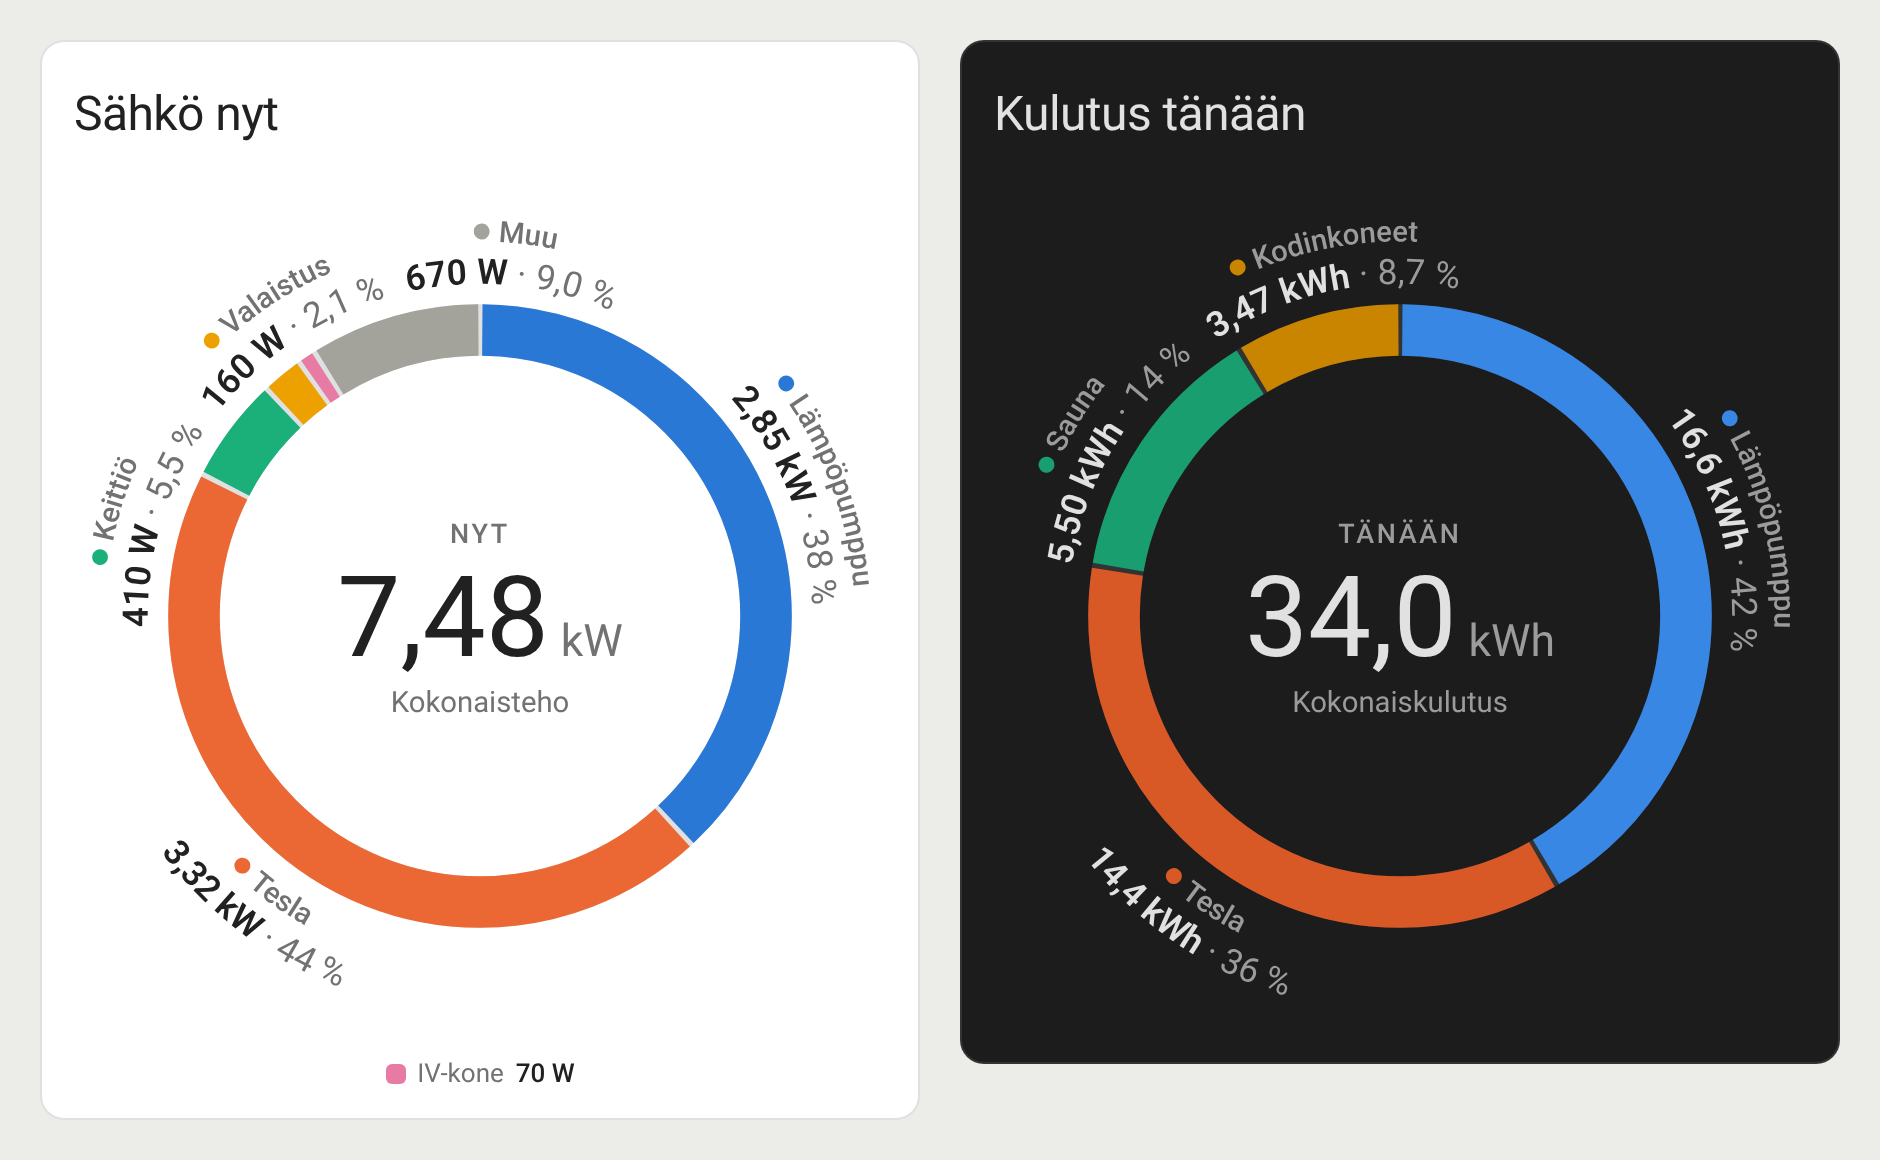
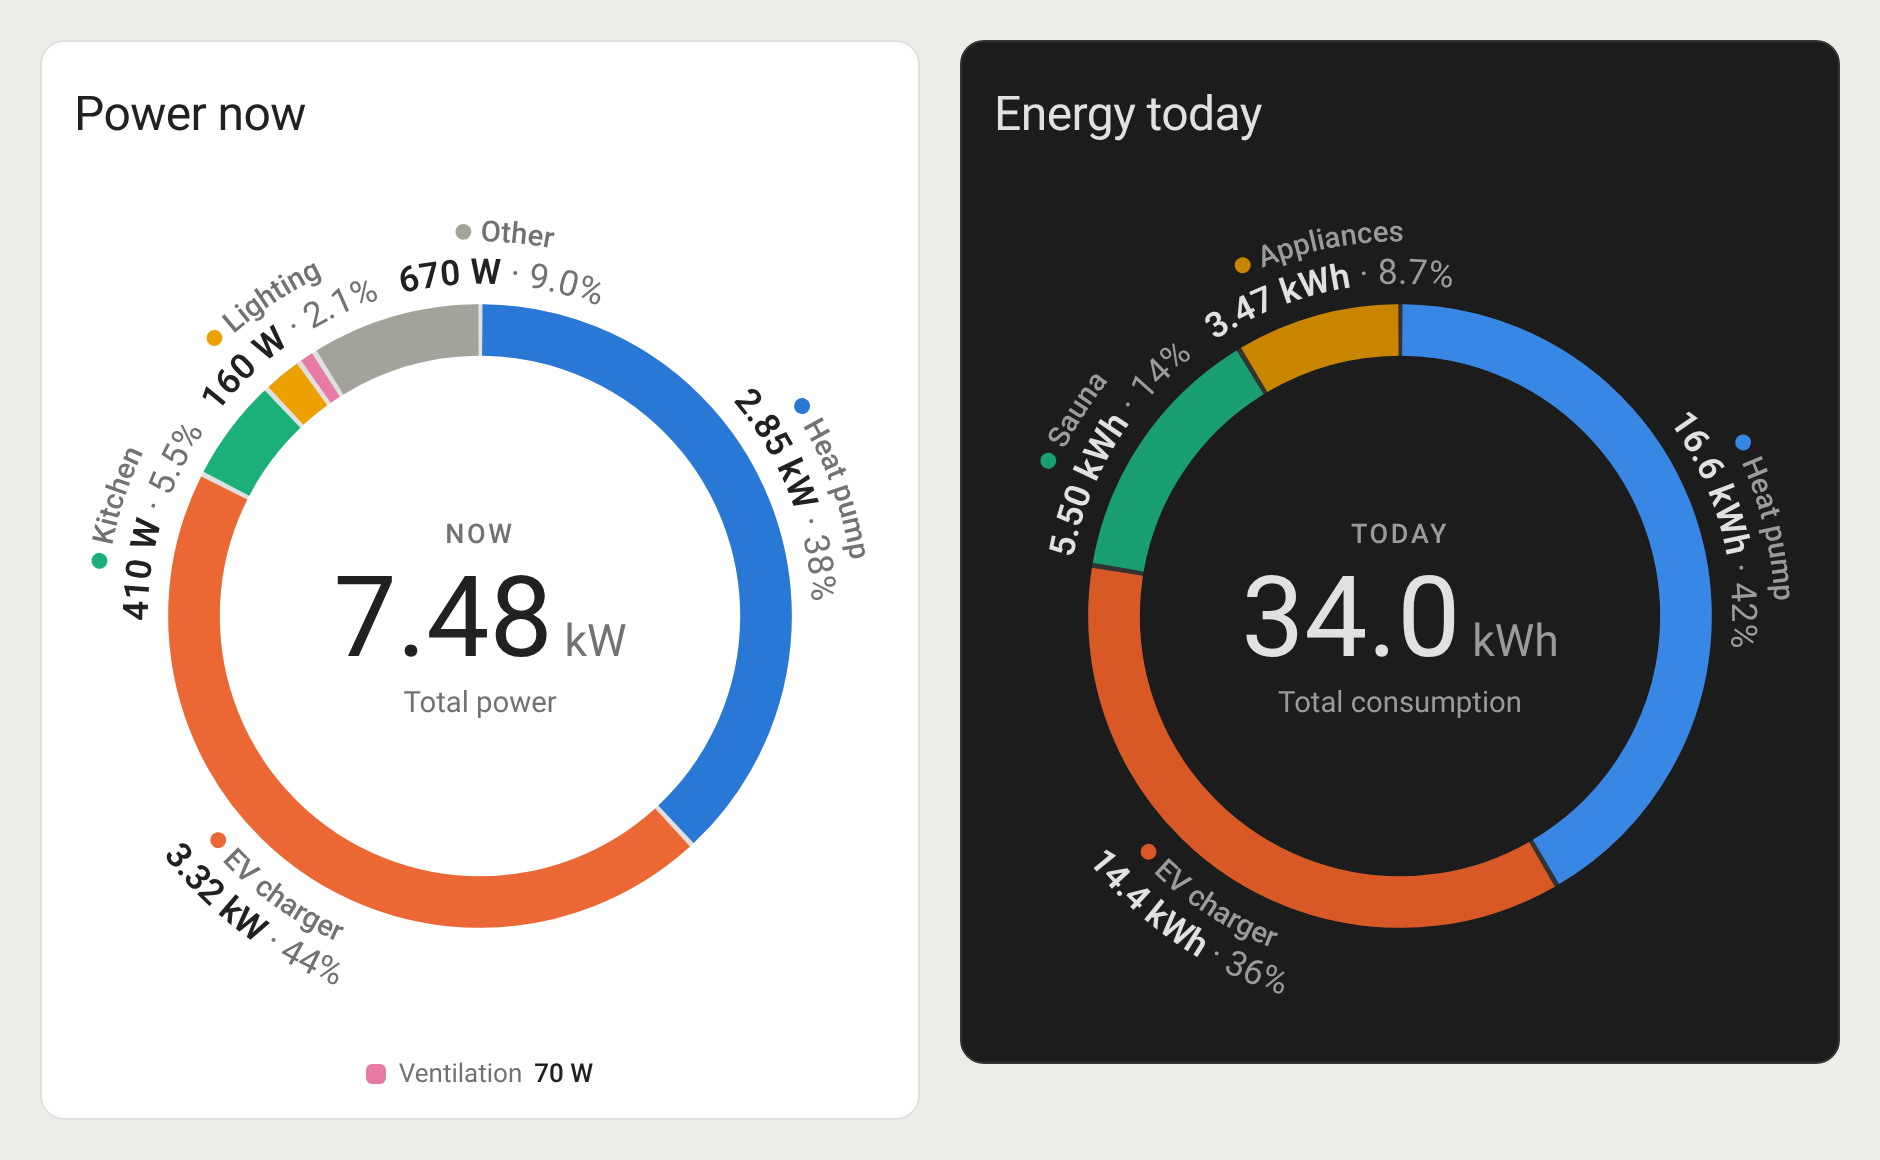
v1.1.1: English throughout
- Card source header, configuration errors and console messages in English
- Card picker description in English
- README: English examples, Finnish section removed
- Preview image regenerated with the English locale

Card UI texts still follow the Home Assistant language (en/fi/sv).

Claude-Session: https://claude.ai/code/session_01Lwrpmej4iouCGrqTRdRwyv

diff --git a/energy-ring-card.js b/energy-ring-card.js
@@ -1,40 +1,40 @@
 /*!
- * energy-ring-card v1.1.0 — Home Assistant Lovelace custom card
+ * energy-ring-card v1.1.1 — Home Assistant Lovelace custom card
  * https://github.com/artepe/energy-ring-haos · MIT
- * Kokonaiskulutus renkaan keskellä, kohteiden kulutukset renkaan sektoreina,
- * nimet ja arvot kaartuvat renkaan linjaa pitkin.
+ * Total consumption in the centre of a ring, each consumer as a segment,
+ * with names and values written along the ring.
  *
- * Asennus: kopioi tiedosto /config/www/energy-ring-card.js ja lisää resurssi
- *   URL: /local/energy-ring-card.js?v=1.0.0   tyyppi: JavaScript-moduuli
+ * Install: copy this file to /config/www/energy-ring-card.js and add a resource
+ *   URL: /local/energy-ring-card.js?v=1.1.1   type: JavaScript module
  *
- * Konfiguraatio (YAML):
+ * Configuration (YAML):
  *   type: custom:energy-ring-card
- *   title: Sähkö                  # valinnainen otsikko
- *   period: live                  # live = entiteettien tila (W/kW tai kWh)
- *                                 # today | yesterday | week | month | year = HA:n
- *                                 # pitkäaikaistilastot (energia-anturit, total_increasing)
- *   total_entity: sensor.koko_talo   # valinnainen, keskelle + "Muu"-sektori erotukselle
- *   entities:                     # 9.+ kohde lasketaan Muu-sektoriin, ellei sille anna omaa väriä
- *     - entity: sensor.vilp_teho
- *       name: Lämpöpumppu
- *       color: orange               # valinnainen (CSS-väri tai HA-värinimi)
- *     - sensor.sauna_teho           # lyhyt muoto
- *   show_other: true              # Muu = total_entity − kohteiden summa
- *   other_name: Muu
- *   sort: false                   # true = suurin ensin
- *   legend: auto                  # auto = vain ne, joiden teksti ei mahdu kehälle | true | false
- *   decimals:                     # valinnainen, pakota desimaalit
- *   center_label: / total_label:  # valinnaiset keskitekstit
- *   refresh_interval: 60          # s, tilastotilassa
- *   max_width: 440                # px, renkaan maksimileveys
- *   grid_options:                 # sections-näkymä: kortti mukautuu annettuun ruutuun
+ *   title: Electricity            # optional header
+ *   period: live                  # live = current entity states (W/kW or kWh)
+ *                                 # today | yesterday | week | month | year = Home Assistant
+ *                                 # long-term statistics (energy sensors, total_increasing)
+ *   total_entity: sensor.house_power  # optional: centre value, remainder shown as "Other"
+ *   entities:                     # a 9th+ entity without its own color is counted in "Other"
+ *     - entity: sensor.heat_pump_power
+ *       name: Heat pump
+ *       color: orange               # optional (CSS color or Home Assistant color name)
+ *     - sensor.sauna_power          # short form
+ *   show_other: true              # Other = total_entity minus the sum of entities
+ *   other_name: Other             # default follows the Home Assistant language
+ *   sort: false                   # true = largest first
+ *   legend: auto                  # auto = only items whose label does not fit on the ring | true | false
+ *   decimals:                     # optional, force the number of decimals
+ *   center_label: / total_label:  # optional centre texts
+ *   refresh_interval: 60          # seconds, statistics mode
+ *   max_width: 440                # px, maximum ring width
+ *   grid_options:                 # sections view: the card fits the cell it is given
  *     columns: 6
  *     rows: 3
  */
 (() => {
   'use strict';
 
-  const VERSION = '1.1.0';
+  const VERSION = '1.1.1';
   const TAG = 'energy-ring-card';
   if (customElements.get(TAG)) return;
 
@@ -342,23 +342,23 @@
     }
 
     setConfig(config) {
-      if (!config || typeof config !== 'object') throw new Error('energy-ring-card: virheellinen konfiguraatio');
+      if (!config || typeof config !== 'object') throw new Error('energy-ring-card: invalid configuration');
       if (!Array.isArray(config.entities) || !config.entities.length) {
-        throw new Error('energy-ring-card: lisää vähintään yksi entiteetti (entities:)');
+        throw new Error('energy-ring-card: add at least one entity (entities:)');
       }
       const entities = config.entities.map((e, i) => {
         const o = typeof e === 'string' ? { entity: e } : { ...(e || {}) };
         if (typeof o.entity !== 'string' || !o.entity.includes('.')) {
-          throw new Error(`energy-ring-card: entities[${i}].entity puuttuu tai on virheellinen`);
+          throw new Error(`energy-ring-card: entities[${i}].entity is missing or invalid`);
         }
         return o;
       });
       const period = config.period && config.period !== 'live' ? String(config.period) : null;
       if (period && !PERIODS.includes(period)) {
-        throw new Error(`energy-ring-card: period: ${['live', ...PERIODS].join(' | ')}`);
+        throw new Error(`energy-ring-card: period must be one of ${['live', ...PERIODS].join(' | ')}`);
       }
       if (config.total_entity != null && (typeof config.total_entity !== 'string' || !config.total_entity.includes('.'))) {
-        throw new Error('energy-ring-card: total_entity on virheellinen');
+        throw new Error('energy-ring-card: total_entity is invalid');
       }
       let legend = config.legend === undefined ? 'auto' : config.legend;
       if (legend === 'all' || legend === 'on') legend = true;
@@ -648,7 +648,7 @@
         this._statsErr = null;
       } catch (err) {
         if (cfgRef !== this._config) return;
-        console.error('[energy-ring-card] tilastojen haku epäonnistui', err);
+        console.error('[energy-ring-card] failed to load statistics', err);
         this._statsErr = (err && (err.message || err.code)) || String(err);
         if (this._stats) this._stats.at = Date.now();
       } finally {
@@ -666,7 +666,7 @@
         const ok = new Set((res || []).filter((m) => m && m.has_sum !== false).map((m) => m.statistic_id));
         const missing = new Set(ids.filter((id) => !ok.has(id)));
         if (missing.size) {
-          console.warn('[energy-ring-card] Näillä entiteeteillä ei ole energiatilastoja (state_class total/total_increasing tarvitaan):', [...missing].join(', '));
+          console.warn('[energy-ring-card] These entities have no energy statistics (state_class total or total_increasing is required):', [...missing].join(', '));
         }
         return { missing };
       } catch (e) {
@@ -785,7 +785,7 @@
       const unitOther = kind === 'other' ? ((tot && tot.unit) || (items.find((i) => i.unit) || {}).unit || '') : '';
       const kinds = new Set(items.filter((i) => i.available).map((i) => i.kind));
       if (tot && tot.kind) kinds.add(tot.kind);
-      if (kinds.size > 1) this._warn('mix', 'energy-ring-card: entiteeteillä on eri suureita (teho W vs. energia kWh) — osuudet eivät ole vertailukelpoisia.');
+      if (kinds.size > 1) this._warn('mix', 'energy-ring-card: the entities mix power (W) and energy (kWh), so their shares are not comparable.');
 
       const vis = items.filter((i) => !i.folded);
       const fold = items.filter((i) => i.folded);
@@ -1159,7 +1159,7 @@
   window.customCards.push({
     type: TAG,
     name: 'Energy Ring Card',
-    description: 'Kokonaiskulutus renkaan keskellä, kohteiden kulutukset renkaan kaarella.',
+    description: 'Total consumption in the centre of a ring, each consumer as a segment along it.',
     preview: true,
   });
   console.info(

diff --git a/tests/preview.py b/tests/preview.py
@@ -1,15 +1,17 @@
 import pathlib
 from playwright.sync_api import sync_playwright
 from PIL import Image
+# Regenerates images/preview.png (English locale, light + dark).
 HERE = pathlib.Path(__file__).parent; OUT = HERE / "out"; URL = (HERE / "index.html").as_uri()
+OUT.mkdir(exist_ok=True)
 LIVE = r"""() => {
   const W = (id, w, n) => st(id, w, 'W', n, { device_class: 'power' });
-  const s = { 'sensor.koko': st('sensor.koko', 7.48, 'kW', 'Koko talo'), 'sensor.vilp': W('sensor.vilp', 2850, 'VILP'),
-    'sensor.tesla': W('sensor.tesla', 3320, 'Tesla'), 'sensor.keittio': W('sensor.keittio', 410, 'Keittiö'),
-    'sensor.valot': W('sensor.valot', 160, 'Valaistus'), 'sensor.iv': W('sensor.iv', 70, 'IV-kone') };
-  mount('P', { type: 'custom:energy-ring-card', title: 'Sähkö nyt', total_entity: 'sensor.koko',
-    entities: [{ entity: 'sensor.vilp', name: 'Lämpöpumppu' }, { entity: 'sensor.tesla', name: 'Tesla' }, 'sensor.keittio', 'sensor.valot', 'sensor.iv'] },
-    makeHass({ states: s }), 440);
+  const s = { 'sensor.house': st('sensor.house', 7.48, 'kW', 'House'), 'sensor.hp': W('sensor.hp', 2850, 'Heat pump'),
+    'sensor.ev': W('sensor.ev', 3320, 'EV charger'), 'sensor.kitchen': W('sensor.kitchen', 410, 'Kitchen'),
+    'sensor.lights': W('sensor.lights', 160, 'Lighting'), 'sensor.vent': W('sensor.vent', 70, 'Ventilation') };
+  mount('P', { type: 'custom:energy-ring-card', title: 'Power now', total_entity: 'sensor.house',
+    entities: ['sensor.hp', 'sensor.ev', 'sensor.kitchen', 'sensor.lights', 'sensor.vent'] },
+    makeHass({ states: s, lang: 'en' }), 440);
 }"""
 STATS = r"""() => {
   document.documentElement.classList.add('dark');
@@ -17,10 +19,10 @@ STATS = r"""() => {
     'sensor.e': (t) => ((Math.floor(t / 36e5) % 24) < 4 ? 3.6 : 0), 'sensor.s': (t) => ((Math.floor(t / 36e5) % 24) === 7 ? 5.5 : 0),
     'sensor.k': (t) => 0.3 };
   const defs = Object.fromEntries(Object.entries(kwf).map(([k, f]) => [k, { kw: f }]));
-  const names = { 'sensor.t': 'Koko talo', 'sensor.v': 'Lämpöpumppu', 'sensor.e': 'Tesla', 'sensor.s': 'Sauna', 'sensor.k': 'Kodinkoneet' };
+  const names = { 'sensor.t': 'House', 'sensor.v': 'Heat pump', 'sensor.e': 'EV charger', 'sensor.s': 'Sauna', 'sensor.k': 'Appliances' };
   const s = Object.fromEntries(Object.keys(kwf).map(k => [k, st(k, 1, 'kWh', names[k])]));
-  mount('Q', { type: 'custom:energy-ring-card', title: 'Kulutus tänään', period: 'today', total_entity: 'sensor.t',
-    entities: ['sensor.v', 'sensor.e', 'sensor.s', 'sensor.k'] }, makeHass({ states: s, dark: true, callWS: makeStatsWS(defs) }), 440);
+  mount('Q', { type: 'custom:energy-ring-card', title: 'Energy today', period: 'today', total_entity: 'sensor.t',
+    entities: ['sensor.v', 'sensor.e', 'sensor.s', 'sensor.k'] }, makeHass({ states: s, dark: true, lang: 'en', callWS: makeStatsWS(defs) }), 440);
 }"""
 shots = []
 with sync_playwright() as p:
@@ -37,4 +39,4 @@ pad = 40; w = sum(i.width for i in ims) + pad * 3; h = max(i.height for i in ims
 canvas = Image.new("RGB", (w, h), (236, 236, 233)); x = pad
 for i in ims:
     canvas.paste(i, (x, pad), i); x += i.width + pad
-OUT.mkdir(exist_ok=True); canvas.save(HERE.parent / "images" / "preview.png"); print(canvas.size)
+canvas.save(HERE.parent / "images" / "preview.png"); print(canvas.size)

diff --git a/README.md b/README.md
@@ -8,7 +8,7 @@ A Home Assistant Lovelace card that shows the total consumption in the middle of
 - Optional `total_entity`: the untracked remainder is shown as an **Other** segment.
 - Labels are laid out automatically. Ones that don't fit on the ring move to a legend under it.
 - Hover a segment to see its value and share in the centre. A click opens the more-info dialog. Works with the keyboard too.
-- Light and dark theme, colour-blind-safe default palette, Finnish / Swedish / English texts.
+- Light and dark theme and a colour-blind-safe default palette. Card texts follow the Home Assistant language (English, Finnish, Swedish).
 
 Requires Home Assistant 2024.1 or newer.
 
@@ -22,7 +22,7 @@ Requires Home Assistant 2024.1 or newer.
 **Manual**
 
 1. Copy `energy-ring-card.js` to `/config/www/`.
-2. Settings → Dashboards → ⋮ → **Resources** → Add resource: `/local/energy-ring-card.js?v=1.0.0`, type **JavaScript module**. (Resources is visible when *Advanced mode* is on in your user profile.)
+2. Settings → Dashboards → ⋮ → **Resources** → Add resource: `/local/energy-ring-card.js?v=1.1.1`, type **JavaScript module**. (Resources is visible when *Advanced mode* is on in your user profile.)
 3. Hard-refresh the browser.
 
 ## Examples
@@ -31,11 +31,11 @@ Power right now:
 
 ```yaml
 type: custom:energy-ring-card
-title: Sähkö nyt
+title: Power now
 total_entity: sensor.shellypro3em_total_active_power
 entities:
   - entity: sensor.heat_pump_power
-    name: Lämpöpumppu
+    name: Heat pump
   - entity: sensor.tesla_wall_connector_power
     name: Tesla
   - entity: sensor.sauna_power
@@ -46,12 +46,12 @@ Energy today, read from the recorder statistics:
 
 ```yaml
 type: custom:energy-ring-card
-title: Kulutus tänään
+title: Energy today
 period: today            # today | yesterday | week | month | year
 total_entity: sensor.shellypro3em_total_active_energy
 entities:
   - entity: sensor.heat_pump_energy
-    name: Lämpöpumppu
+    name: Heat pump
   - entity: sensor.tesla_wall_connector_energy
     name: Tesla
 ```
@@ -65,12 +65,12 @@ entities:
 | `period` | `live` | `live` = current state of the entities. `today`, `yesterday`, `week`, `month`, `year` = sum from long-term statistics. |
 | `title` | – | Card header. |
 | `show_other` | `true` | `false` leaves the untracked part of the ring empty instead of drawing *Other*. |
-| `other_name` | `Muu` / `Other` | Name of the remainder segment. |
+| `other_name` | *Other*, in the Home Assistant language | Name of the remainder segment. |
 | `sort` | `false` | `true` = largest first, clockwise from the top. Default keeps the order of `entities`. |
 | `legend` | `auto` | `auto` = only items whose label doesn't fit on the ring, `true` = all, `false` = none. |
 | `decimals` | automatic | Force the number of decimals. |
-| `center_label` | period / "Now" | Small text above the centre value. |
-| `total_label` | "Total power" / "Total consumption" | Text below the centre value. |
+| `center_label` | period or *Now* | Small text above the centre value. |
+| `total_label` | *Total power* or *Total consumption* | Text below the centre value. |
 | `refresh_interval` | `60` | Seconds between statistics refreshes (minimum 15). |
 | `max_width` | `440` | Maximum width of the ring in pixels. |
 
@@ -95,10 +95,6 @@ When the ring is smaller than about 280 px, it switches to a compact ring withou
 With `period` set, the card sums the `change` of each sensor from the recorder: completed days in one request, today's completed hours, and the 5-minute statistics of the running hour. The numbers are at most a few minutes behind and refresh every `refresh_interval` seconds.
 
 The sensors need `state_class: total` or `total_increasing` (the same sensors the Energy dashboard uses). Values are converted to kWh. A sensor without statistics is flagged in the legend and under the ring.
-
-## Suomeksi
-
-Kortti näyttää kokonaiskulutuksen renkaan keskellä ja kohteiden kulutukset renkaan sektoreina. Nimet, arvot ja osuudet kaartuvat renkaan mukaan. Asennus HACSilla (Custom repositories, tyyppi *Dashboard*) tai kopioimalla `energy-ring-card.js` kansioon `/config/www/` ja lisäämällä resurssi `/local/energy-ring-card.js?v=1.0.0` (JavaScript-moduuli). Esimerkit ja asetukset yllä.
 
 ## Development
 
